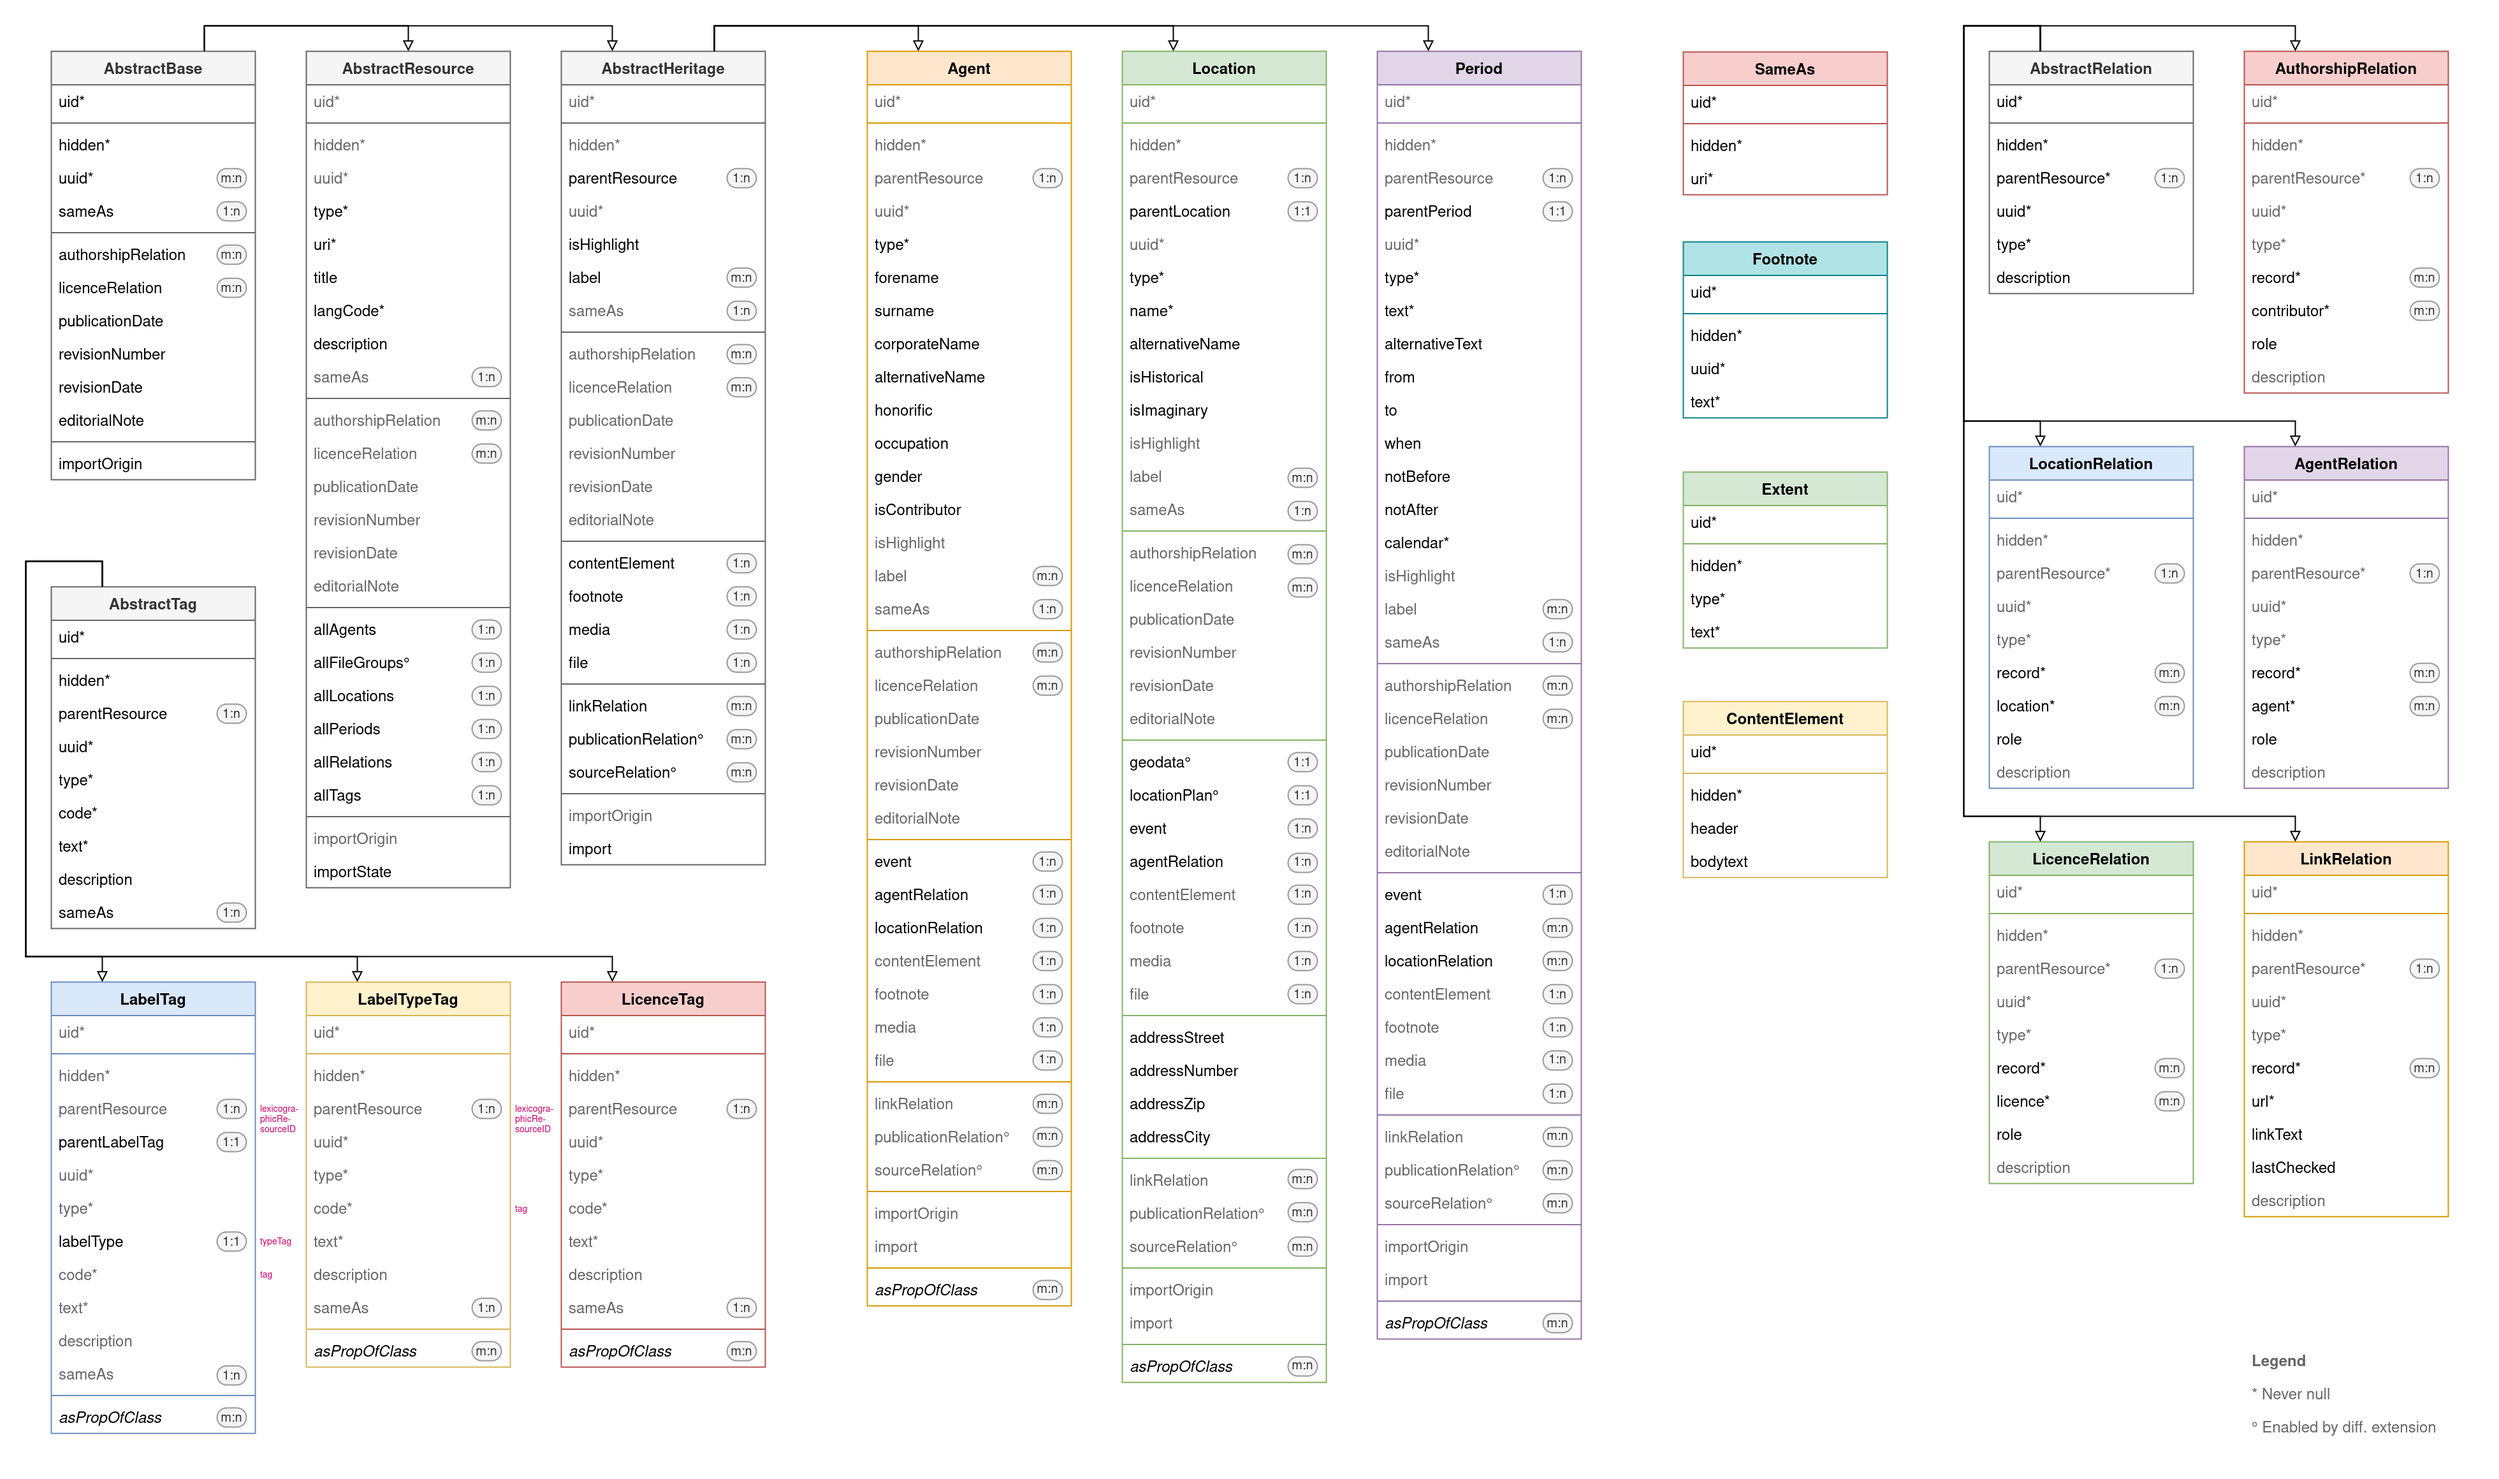
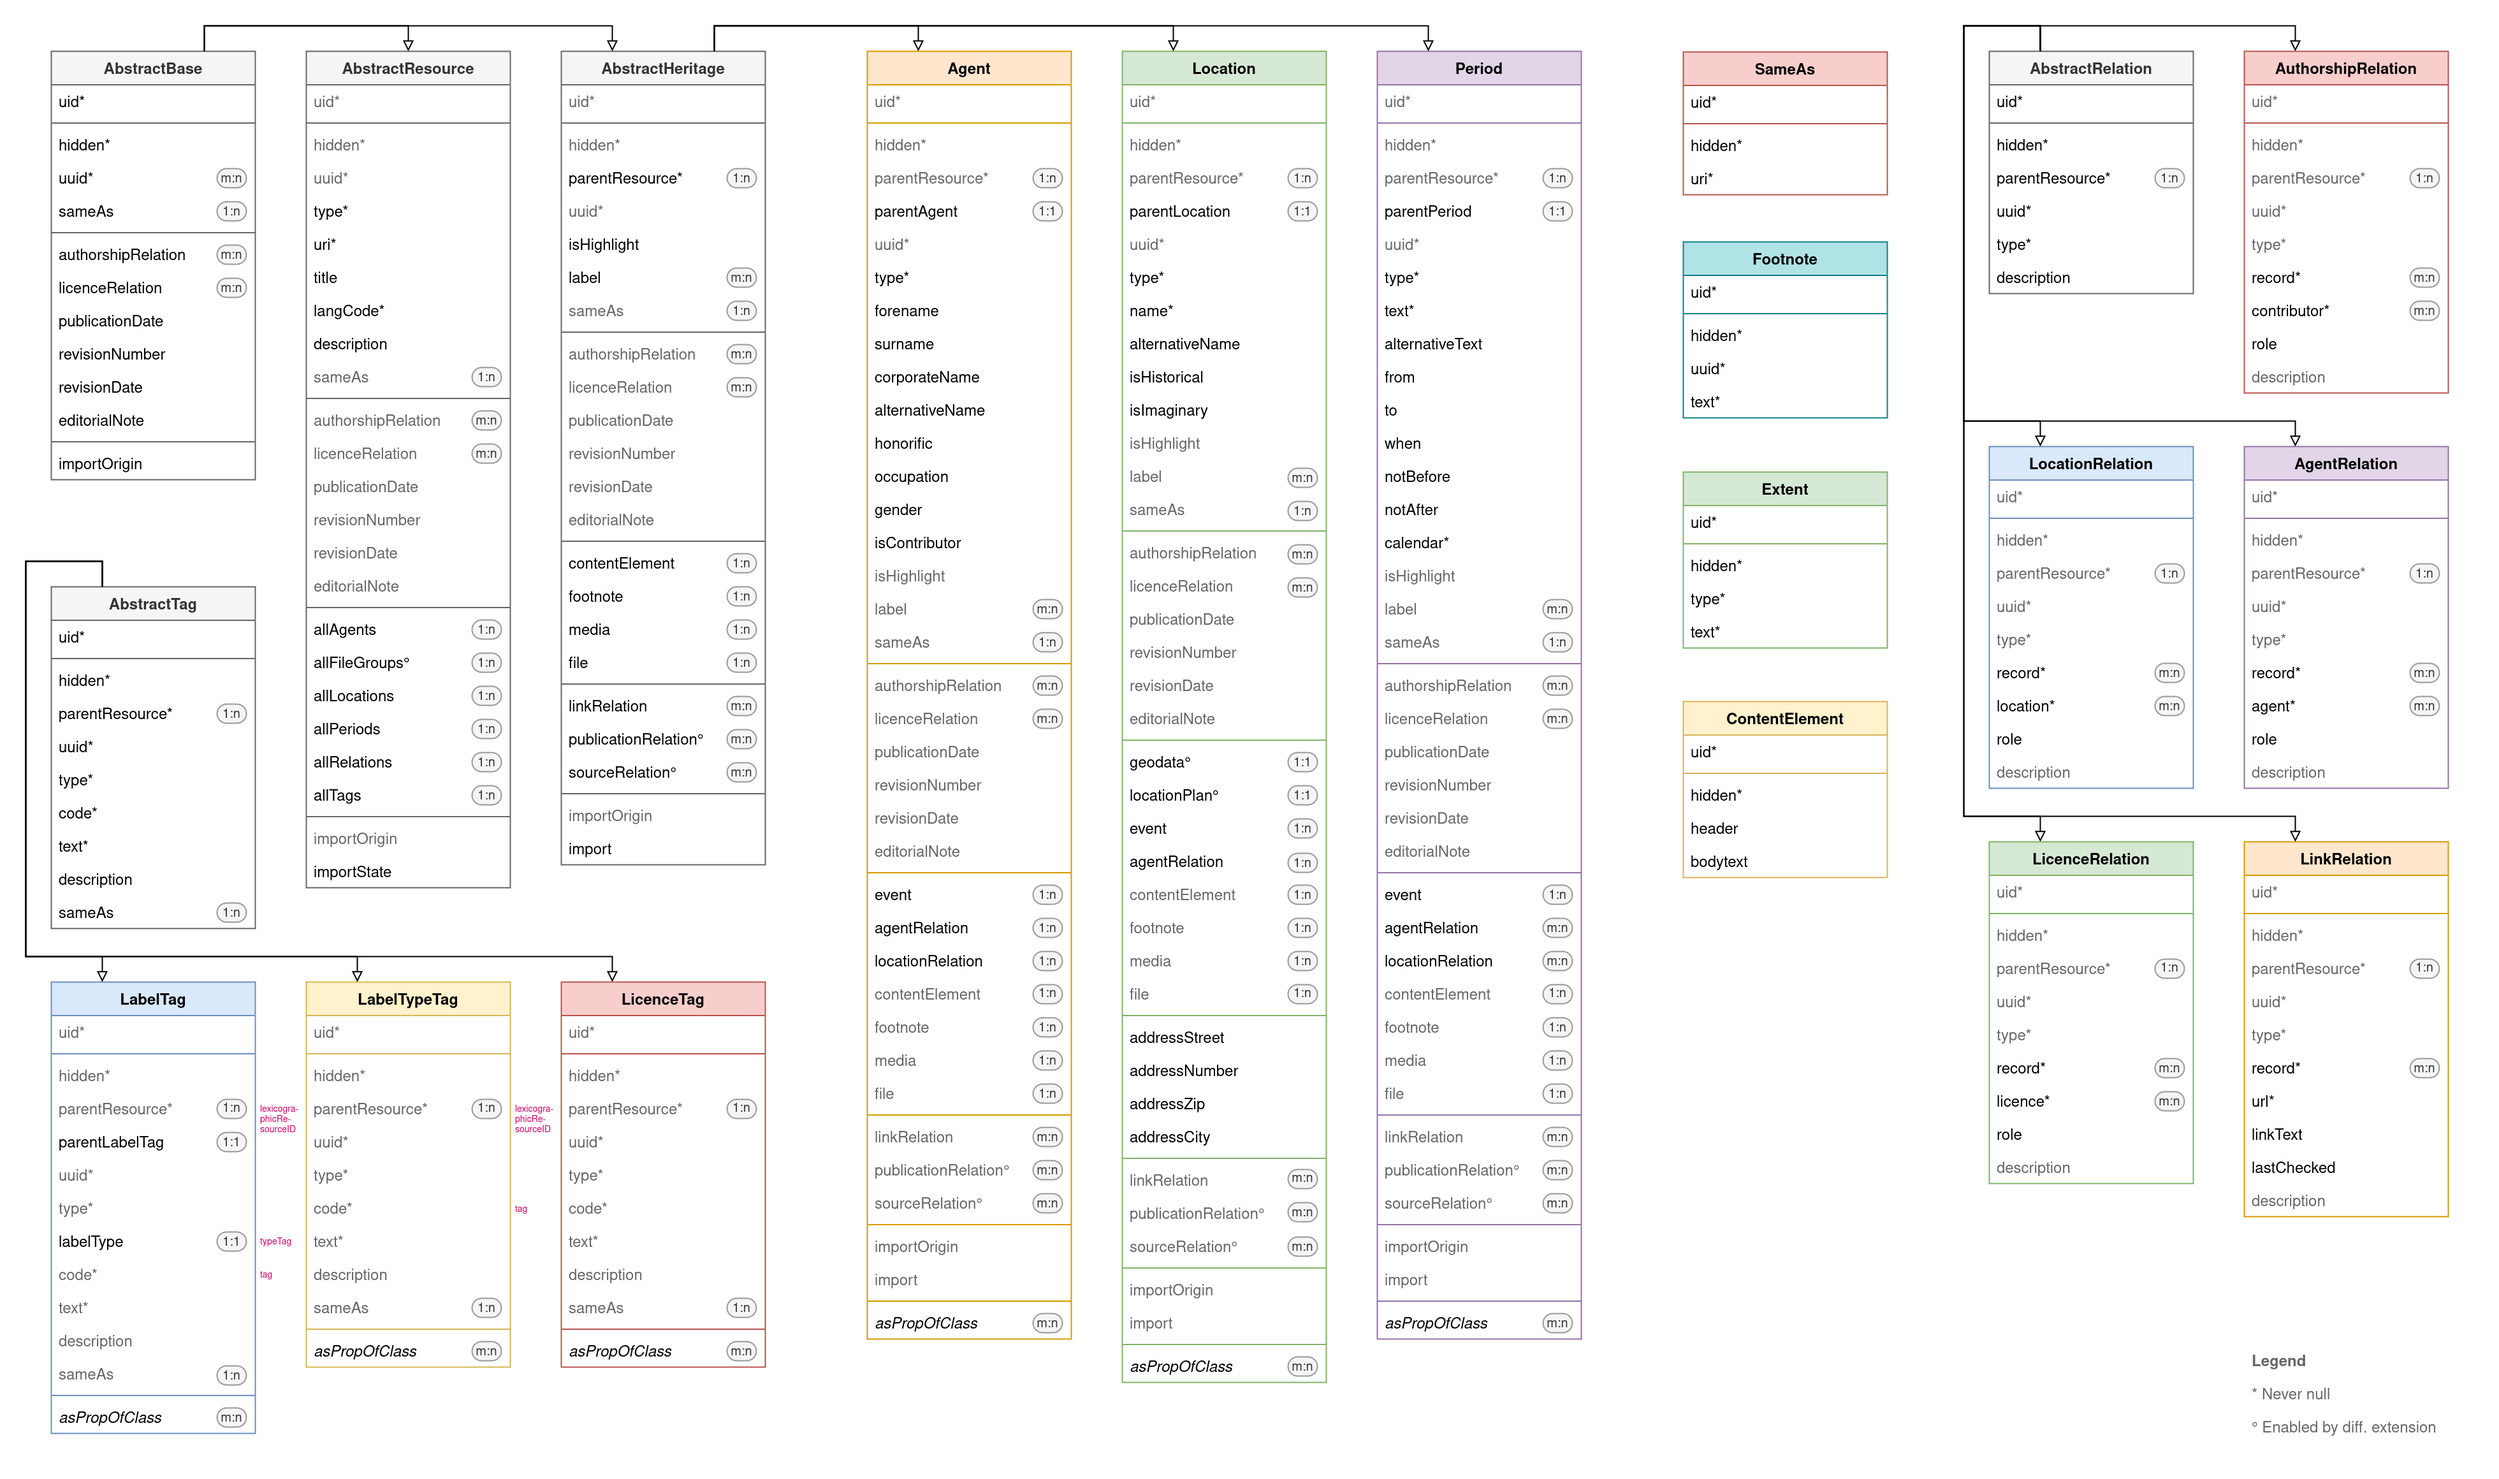
Clean up parent relations in TCA

diff --git a/Configuration/TCA/tx_chfbase_domain_model_agent.php b/Configuration/TCA/tx_chfbase_domain_model_agent.php
@@ -134,6 +134,23 @@ return [
                 'sortItems' => [
                     'label' => 'asc',
                 ],
+                'required' => true,
+            ],
+        ],
+        'parentAgent' => [
+            'exclude' => true,
+            'l10n_mode' => 'exclude',
+            'label' => 'LLL:EXT:chf_base/Resources/Private/Language/locallang.xlf:object.agent.parentAgent',
+            'description' => 'LLL:EXT:chf_base/Resources/Private/Language/locallang.xlf:object.agent.parentAgent.description',
+            'config' => [
+                'type' => 'select',
+                'renderType' => 'selectTree',
+                'foreign_table' => 'tx_chfbase_domain_model_agent',
+                'foreign_table_where' => 'AND {#tx_chfbase_domain_model_agent}.{#pid}=###CURRENT_PID###',
+                'treeConfig' => [
+                    'parentField' => 'parentAgent',
+                ],
+                'maxitems' => 1,
             ],
         ],
         'uuid' => [

diff --git a/Configuration/TCA/tx_chfbase_domain_model_location.php b/Configuration/TCA/tx_chfbase_domain_model_location.php
@@ -134,6 +134,7 @@ return [
                 'sortItems' => [
                     'label' => 'asc',
                 ],
+                'required' => true,
             ],
         ],
         'parentLocation' => [

diff --git a/Configuration/TCA/tx_chfbase_domain_model_tag.php b/Configuration/TCA/tx_chfbase_domain_model_tag.php
@@ -136,6 +136,7 @@ return [
                 'sortItems' => [
                     'label' => 'asc',
                 ],
+                'required' => true,
             ],
         ],
         'parentLabelTag' => [

diff --git a/Configuration/TCA/tx_chfbase_domain_model_period.php b/Configuration/TCA/tx_chfbase_domain_model_period.php
@@ -144,6 +144,7 @@ return [
                 'sortItems' => [
                     'label' => 'asc',
                 ],
+                'required' => true,
             ],
         ],
         'parentPeriod' => [

diff --git a/Configuration/TCA/tx_chfbase_domain_model_relation.php b/Configuration/TCA/tx_chfbase_domain_model_relation.php
@@ -136,6 +136,7 @@ return [
                 'sortItems' => [
                     'label' => 'asc',
                 ],
+                'required' => true,
             ],
         ],
         'uuid' => [
